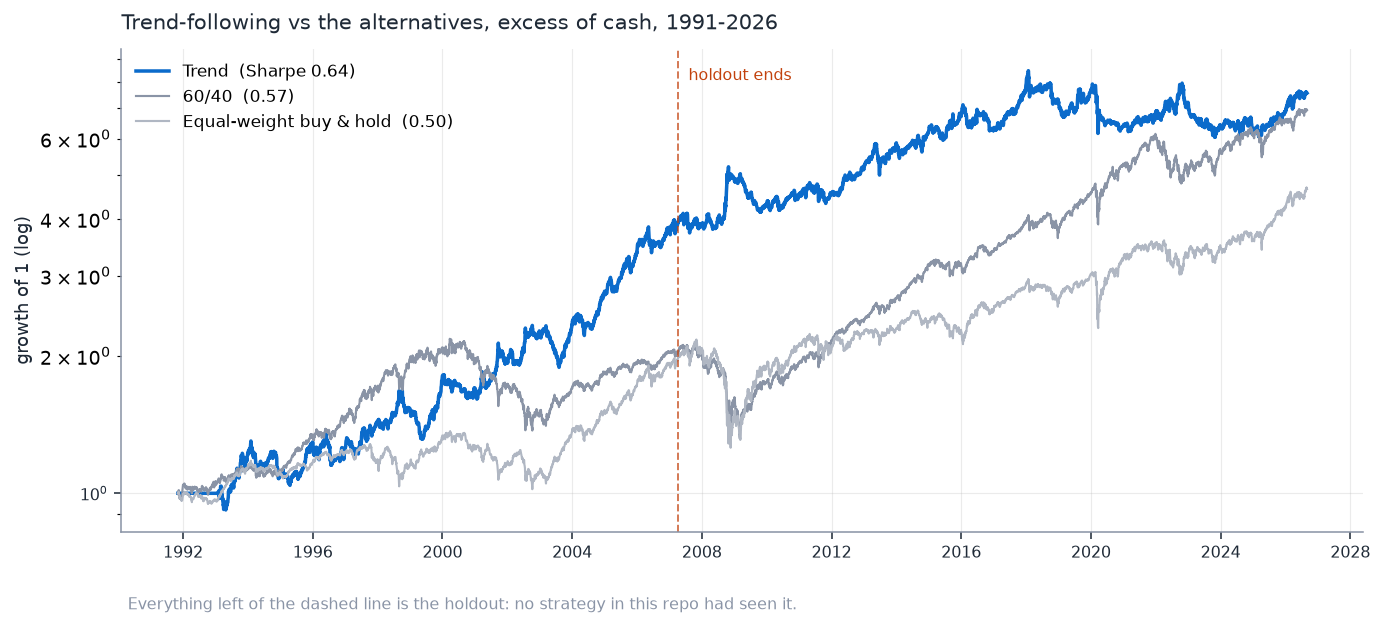
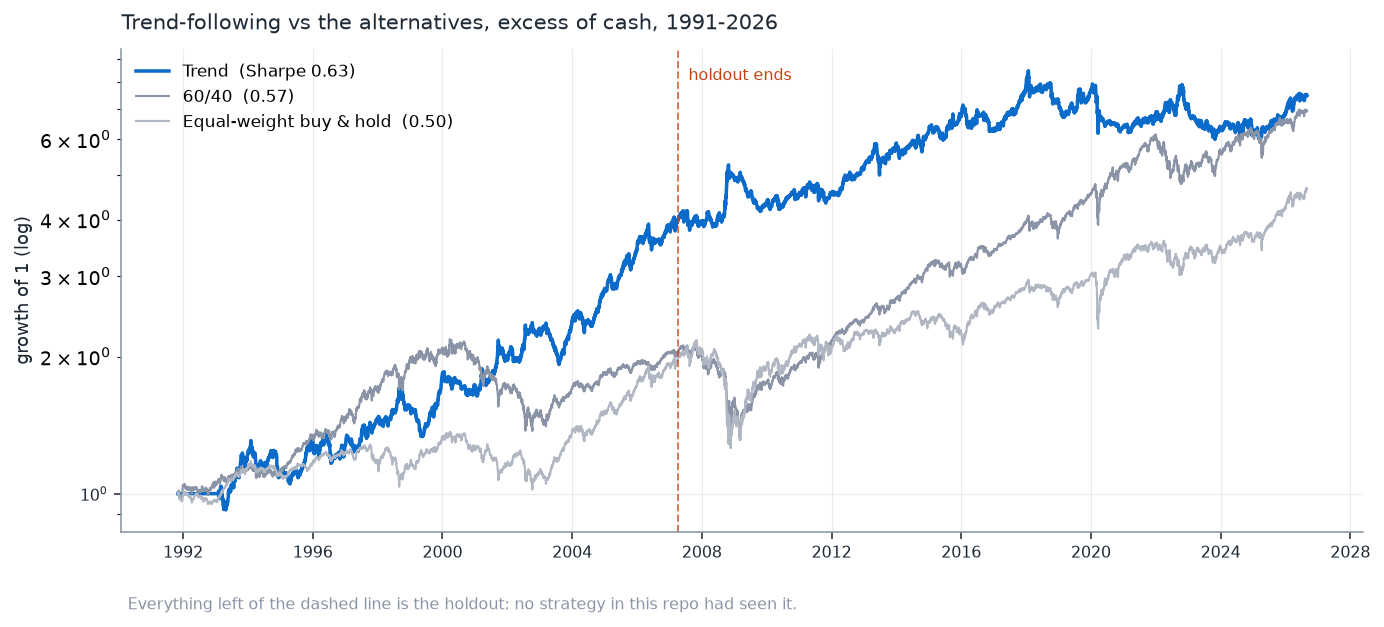
Remove a test that enshrined the corrected bug, and clear stale counts
Reviewed the repo again after the last fix. Four things were still wrong.

A passing test encoded the wrong conclusion. test_fixes.py held
TestBreadthDoesNotAutomaticallyHelp, whose docstring still asserted
"adding 28 markets took effective bets from 1.35 to 1.06", and a test
named test_effective_bets_falls_when_correlated_markets_are_added that
PASSED only because it exercised the degenerate metric. It was pinning
the bug in place as if it were a finding.

Replaced with a test of what actually happens, which cuts both ways:
near-clones (rho ~0.86) lower the spectral count, moderately correlated
markets (rho ~0.40, which is what the real sector funds are) RAISE it
from 5.26 to 12.69. Plus a test of the real mechanism -- equal-weighting
a strong market set with a weak one lands between them, so weak
additions dilute however independent they are.

Checked whether the sibling metric shares the flaw. diversification_ratio
degrades smoothly (3.32, 2.71, 1.92, 1.35, 1.05 as rho goes 0 to 0.9);
only effective_bets was degenerate.

Charts disagreed with the tables. make_charts.build used a flat 5bps
while every report uses the volatility-scaled schedule, so chart 4 drew
0.638 beside a table saying 0.635. A chart quoting a Sharpe the committed
report does not contain is worse than no chart. Aligned; all four
regenerated. It also kept a private copy of the sector-fund set, which
would let the charts silently diverge from the study -- now imports
extended.US_SECTOR_FUNDS.
[…]

diff --git a/tests/test_fixes.py b/tests/test_fixes.py
@@ -717,11 +717,19 @@ class TestExtendedUniverseCandidates:
 
 
 class TestBreadthDoesNotAutomaticallyHelp:
-    """More markets is not more diversification, and the code should say so.
+    """More markets is not automatically a better book -- but not for the reason
+    first published here.
 
-    Adding 28 markets to the trend book took effective independent bets from
-    1.35 down to 1.06 and the Sharpe from 0.614 to 0.580, because 18 of the
-    additions were US equity sectors that all trend together.
+    The original claim was that adding 28 markets took effective independent
+    bets from 1.35 to 1.06. That was an artifact of a degenerate metric (see
+    TestBreadthMetrics). Measured properly, the wide universe has MORE
+    independent bets -- 12.69 against the core's 5.26 -- and still scores worse
+    (0.577 against 0.611).
+
+    The binding variable is per-market SIGNAL QUALITY: the 18 US equity sector
+    funds carry a mean trend Sharpe of 0.156 against 0.227 for the core and
+    0.250 for the diversifying additions, and an equal-weighted book dilutes
+    directly.
     """
 
     def test_wide_universe_costs_no_history(self):
@@ -738,28 +746,54 @@ class TestBreadthDoesNotAutomaticallyHelp:
 
         assert "VCVSX" not in extended.wide_universe()
 
-    def test_effective_bets_falls_when_correlated_markets_are_added(self):
-        """The mechanism, on synthetic data: bolting a block of near-identical
-        markets onto a diversified set lowers the effective bet count even
-        though the market count rises."""
-        from src.risk import effective_bets, ledoit_wolf_covariance
+    def test_added_markets_raise_or_lower_bets_by_how_correlated_they_are(self):
+        """The corrected mechanism, and it cuts both ways.
+
+        An earlier version asserted that adding correlated markets always LOWERS
+        the bet count. That only passed because it used the degenerate
+        portfolio-level metric, and it is not what the real data does: the 18 US
+        sector funds correlate about 0.39 with each other and raised the count
+        from 5.26 to 12.69.
+
+        Near-clones do lower it. Moderately correlated markets raise it. The
+        count is not a proxy for "should I add these".
+        """
+        from src.risk import spectral_bets
 
         rng = np.random.default_rng(81)
-        n = 1500
-        diversified = rng.normal(0, 0.01, size=(n, 4))
-        sector_driver = rng.normal(0, 0.01, size=(n, 1))
-        sectors = sector_driver + rng.normal(0, 0.002, size=(n, 12))
+        n = 4000
+        base = rng.normal(0, 0.01, size=(n, 4))
+        driver = rng.normal(0, 0.01, size=(n, 1))
 
-        narrow = pd.DataFrame(diversified)
-        wide = pd.DataFrame(np.hstack([diversified, sectors]))
+        # rho = sigma_d^2 / (sigma_d^2 + sigma_i^2); 0.004 gives ~0.86, 0.0122 ~0.40.
+        clones = driver + rng.normal(0, 0.004, size=(n, 12))
+        moderate = driver + rng.normal(0, 0.0122, size=(n, 12))
 
-        def bets(frame):
-            covariance, _ = ledoit_wolf_covariance(frame)
-            equal = np.full(frame.shape[1], 1.0 / frame.shape[1])
-            return effective_bets(equal, covariance)
+        narrow = spectral_bets(np.cov(base.T))
+        with_clones = spectral_bets(np.cov(np.hstack([base, clones]).T))
+        with_moderate = spectral_bets(np.cov(np.hstack([base, moderate]).T))
 
-        assert wide.shape[1] > narrow.shape[1], "precondition: more markets"
-        assert bets(wide) < bets(narrow), "but fewer independent bets"
+        assert with_clones < narrow, "near-clones add almost no independent variation"
+        assert with_moderate > narrow,             "moderately correlated markets DO add bets -- as the real sectors did"
+        assert with_moderate > with_clones
+
+    def test_a_weak_signal_block_lowers_the_equal_weighted_book(self):
+        """Why breadth failed, stated as a property: equal-weighting a strong
+        set with a weak one lands between them, so adding weak markets dilutes
+        however independent they are."""
+        rng = np.random.default_rng(82)
+        n = 4000
+        strong = rng.normal(0.0006, 0.01, size=(n, 4))     # good per-market edge
+        weak = rng.normal(0.0001, 0.01, size=(n, 12))      # independent but weak
+
+        def sharpe(block):
+            book = block.mean(axis=1)
+            return float(book.mean() / book.std() * np.sqrt(252))
+
+        strong_only = sharpe(strong)
+        combined = sharpe(np.hstack([strong, weak]))
+        assert combined < strong_only, "diluting a strong set with a weak one hurts"
+        assert combined > sharpe(weak), "and it still beats the weak set alone"
 
 
 class TestBreadthMetrics:

diff --git a/src/deflated.py b/src/deflated.py
@@ -1,11 +1,12 @@
-"""What a Sharpe ratio is worth after you account for having looked 25 times.
+"""What a Sharpe ratio is worth after you account for how many you looked at.
 
-The study tests 5 sleeves x 5 allocators, plus risk-overlay variants. Reporting
-the best cell's Sharpe ratio is reporting the maximum of a couple of dozen
-correlated draws, and the expected maximum of N draws from a zero-mean
-distribution is emphatically not zero. At N = 25 and this sample length the
-inflation is on the order of half a Sharpe unit -- comfortably larger than every
-difference the study is trying to detect.
+The studies here have scored 53 configurations across one panel -- sleeves times
+allocators, repair variants, breadth universes, signal variants. Reporting the
+best cell's Sharpe is reporting the maximum of 53 correlated draws, and the
+expected maximum of N draws from a zero-mean distribution is emphatically not
+zero. At this N and this sample length the inflation is on the order of half a
+Sharpe unit, comfortably larger than every difference the studies are trying to
+detect.
 
 Two corrections, which answer different questions:
 
@@ -146,9 +147,9 @@ def haircut_sharpe(annual_sharpe: float, n_years: float, n_trials: int,
     elif method == "bhy":
         # Benjamini-Yekutieli multiplier c(N) = sum_{i=1..N} 1/i, which is what
         # makes the procedure valid under arbitrary dependence between trials.
-        # These trials ARE dependent -- five allocators over the same five
-        # sleeves -- so the independence-assuming version would be too lenient.
-        # c(25) is about 3.8, against Bonferroni's factor of 25.
+        # These trials ARE dependent -- the same sleeves scored under several
+        # allocators -- so the independence-assuming version is too lenient.
+        # c(53) is about 4.6, against Bonferroni's factor of 53.
         c = float(np.sum(1.0 / np.arange(1, n_trials + 1)))
         adjusted = min(p_value * c, 1.0)
     else:

diff --git a/scripts/make_charts.py b/scripts/make_charts.py
@@ -34,9 +34,9 @@ from src.sleeves.strategies import TrendFollowing
 warnings.filterwarnings("ignore")
 CHARTS = Path(__file__).resolve().parent.parent / "charts"
 
-SECTORS = {"FSPHX", "FSPTX", "FSELX", "FIDSX", "FSRBX", "FSPCX", "FSLBX", "FSCHX",
-           "FSDPX", "FSRPX", "FSAVX", "FSHOX", "FSTCX", "FBIOX", "FSENX", "FSUTX",
-           "VWNDX", "PRFDX"}
+# Imported, not duplicated: if the study's definition of a sector fund ever
+# changes, a local copy here would let the charts silently disagree with it.
+SECTORS = extended.US_SECTOR_FUNDS
 
 INK = "#1f2a37"
 ACCENT = "#0b6bcb"
@@ -56,9 +56,16 @@ def style(ax, title: str, ylabel: str = "") -> None:
 
 
 def build(prices: pd.DataFrame, cost: float = 5.0):
+    """Trend on one universe, on the SAME cost basis the reports use.
+
+    Volatility-scaled costs, not a flat rate. A chart that quotes a Sharpe the
+    committed report does not contain is worse than no chart -- the first
+    version of this used a flat 5bps and drew 0.638 beside a table saying 0.635.
+    """
     total = prices.pct_change().iloc[1:]
     cash = total["VFISX"]
     excess = total.sub(cash, axis=0)
+    costs = backtest.volatility_scaled_costs(cost, excess.mean(axis=1))
     context = SleeveContext(
         prices=prices,
         dividends=pd.DataFrame(columns=["ticker", "date", "amount"]),
@@ -67,9 +74,9 @@ def build(prices: pd.DataFrame, cost: float = 5.0):
                      if k in prices.columns},
     )
     sleeve = TrendFollowing()
-    config = PortfolioConfig(cost_bps=cost, target_vol=0.08, sleeve_target_vol=0.10)
+    config = PortfolioConfig(cost_bps=costs, target_vol=0.08, sleeve_target_vol=0.10)
     books = vol_target_sleeves(sleeve_books([sleeve], context), excess, config, [sleeve])
-    return backtest.run(books["trend"], excess, cost).returns, excess
+    return backtest.run(books["trend"], excess, costs).returns, excess
 
 
 def main() -> None:

diff --git a/scripts/run_study.py b/scripts/run_study.py
@@ -1,4 +1,4 @@
-"""The study: does running five strategies beat running one?
+"""The study: does running several strategies beat running one?
 
     python -m scripts.run_study
 
@@ -7,9 +7,9 @@ Structure, and the discipline behind it
 The sample is split by date once, up front. Everything that could be a choice --
 which allocator, whether to volatility-target, whether the drawdown throttle
 helps -- is decided on the SELECTION half. The CONFIRMATION half is scored once,
-at the end, and not returned to. Without that split, picking the best of five
+at the end, and not returned to. Without that split, picking the best of six
 allocators on the full sample and reporting its number is just publishing the
-maximum of five noisy draws.
+maximum of six noisy draws.
 
 Sleeve parameters are literature defaults and were never tuned, so they do not
 consume the selection half.
@@ -66,7 +66,8 @@ def main() -> None:
     args = ap.parse_args()
 
     print("=" * 100)
-    print("QUORUM -- five strategies, five ways of splitting capital between them")
+    print(f"QUORUM -- {len(default_sleeves())} strategy sleeves, "
+          f"{len(default_allocators())} ways of splitting capital between them")
     print("=" * 100)
 
     prices, dividends, cash, auxiliary = data.load(allow_fetch=False)
@@ -159,7 +160,7 @@ def main() -> None:
         persistence["confirmation_sharpe"], method="spearman")
     agree = int((persistence["same_sign"] == "yes").sum())
     print(f"\n    rank correlation across halves     {rank_correlation:+.3f} "
-          f"(5 sleeves -- indicative only)")
+          f"({len(persistence)} sleeves -- indicative only)")
     print(f"    sleeves keeping their sign         {agree} of {len(persistence)}")
 
     # ---- [2] are they actually different? ---------------------------------

diff --git a/src/allocators.py b/src/allocators.py
@@ -162,7 +162,7 @@ class MinimumVariance(Allocator):
 
     Long-only is enforced by projection rather than by a QP solver: solve the
     unconstrained problem, zero the negatives, and re-solve on the survivors.
-    Crude, but it terminates, and on five sleeves it reaches the same answer a
+    Crude, but it terminates, and on a handful of sleeves it reaches the same answer a
     proper active-set method would.
     """
 
@@ -223,7 +223,7 @@ class TrailingSharpeTilt(Allocator):
     #: than the differences between these sleeves. Measured on the six-month
     #: version, allocated weight correlated +0.13 with a sleeve's trailing
     #: returns and -0.10 with its NEXT month: it was buying sleeves after their
-    #: good runs, and those runs then reverted. Four of five sleeves showed a
+    #: good runs, and those runs then reverted. Most sleeves showed a
     #: negative correlation between weight and subsequent return.
     #:
     #: Three years cuts the standard error to about 0.58 and makes the tilt a
@@ -283,7 +283,7 @@ class EdgeGated(Allocator):
 
     The measurements it exists to answer:
 
-    * Three of five sleeves lost money out of sample, and no allocation scheme
+    * Most sleeves lost money out of sample, and no allocation scheme
       rescues a book of negative-edge components. Diversification reduces
       variance; it does not manufacture expected return.
     * Which sleeves were funded moved the confirmation-half Sharpe more than the

diff --git a/src/extended.py b/src/extended.py
@@ -228,7 +228,8 @@ def load(refresh: bool = False, allow_fetch: bool = True) -> pd.DataFrame:
 
     if not allow_fetch:
         raise FileNotFoundError(
-            f"no cached data at {EXTENDED_FILE}; run scripts/fetch_extended.py"
+            f"no cached data at {EXTENDED_FILE}. "
+            "Run `python -m scripts.research_edge` first -- it fetches and caches it."
         )
 
     import yfinance as yf
@@ -255,7 +256,10 @@ def load_wide(refresh: bool = False, allow_fetch: bool = True) -> pd.DataFrame:
     if WIDE_FILE.exists() and not refresh:
         return pd.read_parquet(WIDE_FILE)
     if not allow_fetch:
-        raise FileNotFoundError(f"no cached data at {WIDE_FILE}")
+        raise FileNotFoundError(
+            f"no cached wide universe at {WIDE_FILE}. "
+            "Run `python -m scripts.research_edge` first -- it fetches and caches it."
+        )
 
     import yfinance as yf
 

diff --git a/src/risk.py b/src/risk.py
@@ -4,7 +4,7 @@ Position sizing is not a strategy, it is the constraint every strategy runs
 inside. Three pieces here, in the order they matter.
 
 **Covariance estimation.** Every allocator below the equal-weight one needs a
-covariance matrix, and the sample covariance of five sleeves over a two-year
+covariance matrix, and the sample covariance of a handful of sleeves over a two-year
 window is estimated from about 500 observations for 15 free parameters. That is
 enough to be badly wrong in a specific way: the sample matrix systematically
 overstates the spread of its own eigenvalues, so the smallest-variance direction

diff --git a/src/universe.py b/src/universe.py
@@ -5,7 +5,7 @@ Why ETFs and not single stocks
 A multi-strategy book needs sleeves that behave differently from each other,
 and the cleanest source of that difference is asset class, not stock selection.
 Trend following earns its living in bonds and commodities as much as equities;
-a single-stock universe would leave three of the five sleeves trading the same
+a single-stock universe would leave most of the sleeves trading the same
 underlying risk and would make the diversification question uninteresting.
 
 It also sidesteps two data problems this repo cannot honestly solve on free

diff --git a/scripts/audit.py b/scripts/audit.py
@@ -469,7 +469,7 @@ def main() -> None:
     # =====================================================================
     section("[H] ERC vs MINIMUM VARIANCE -- which is structurally more stable?")
     # =====================================================================
-    print("\nAllocator weight stability (monthly weight changes across the 5 sleeves):")
+    print("\nAllocator weight stability (monthly weight changes across the sleeves):")
     rows = []
     for name, portfolio in portfolios.items():
         w = portfolio.sleeve_weights.reindex(monthly).dropna()

diff --git a/src/sleeves/strategies.py b/src/sleeves/strategies.py
@@ -1,4 +1,4 @@
-"""The five sleeves.
+"""The sleeves.
 
 Chosen to be genuinely different from one another, which is the only thing that
 makes a multi-strategy book worth building. Two of them -- cross-sectional
